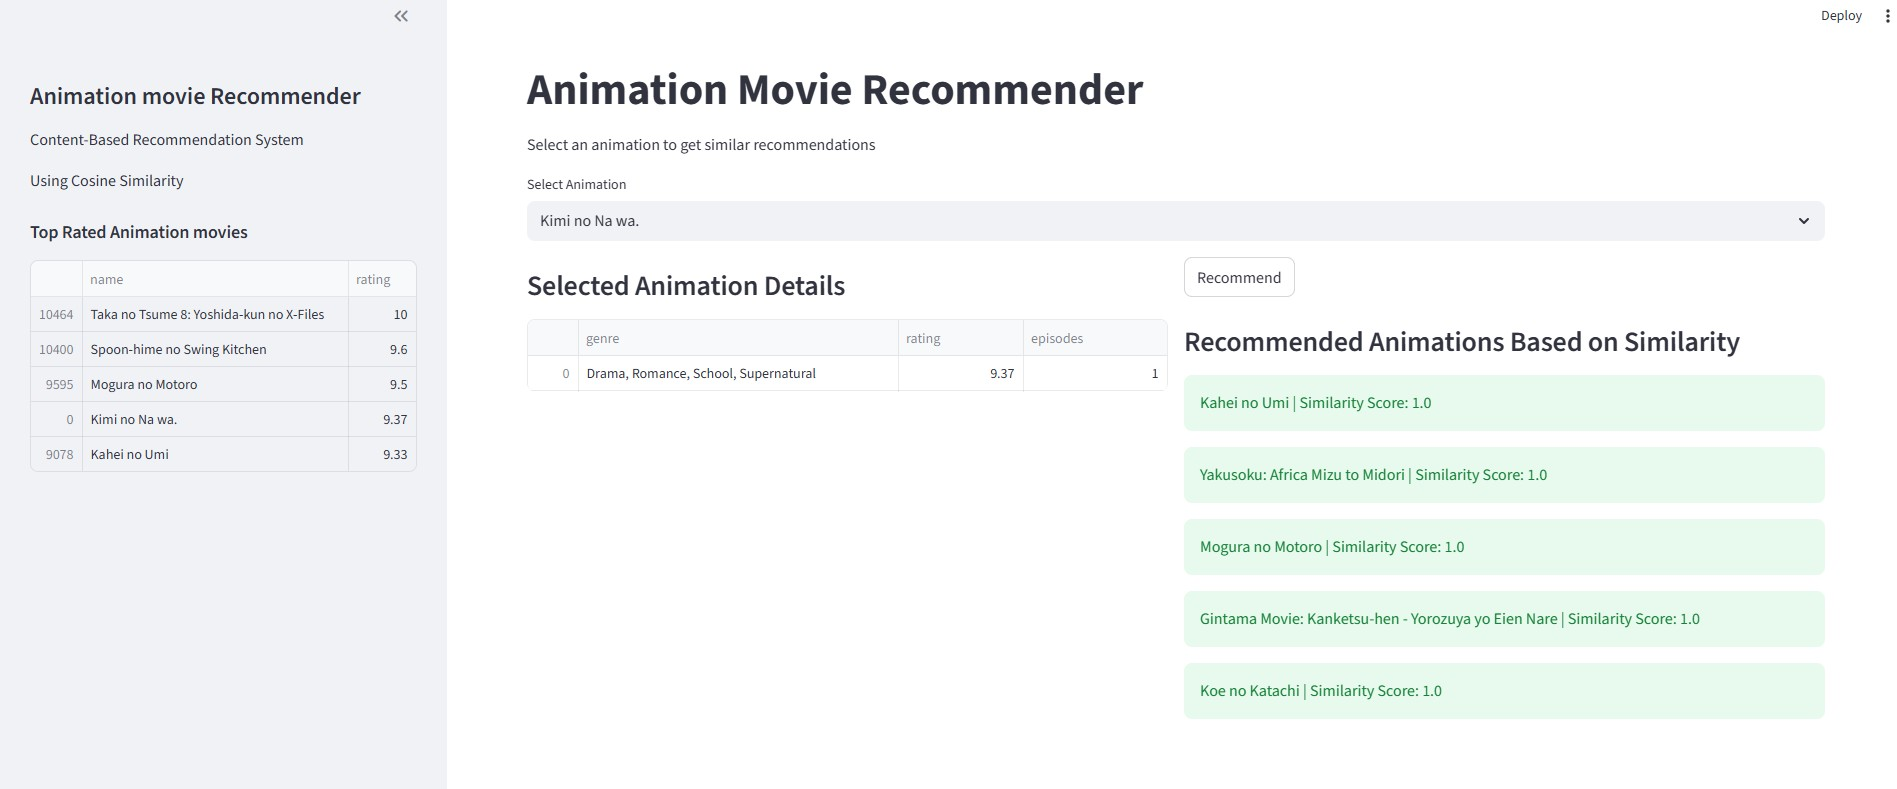
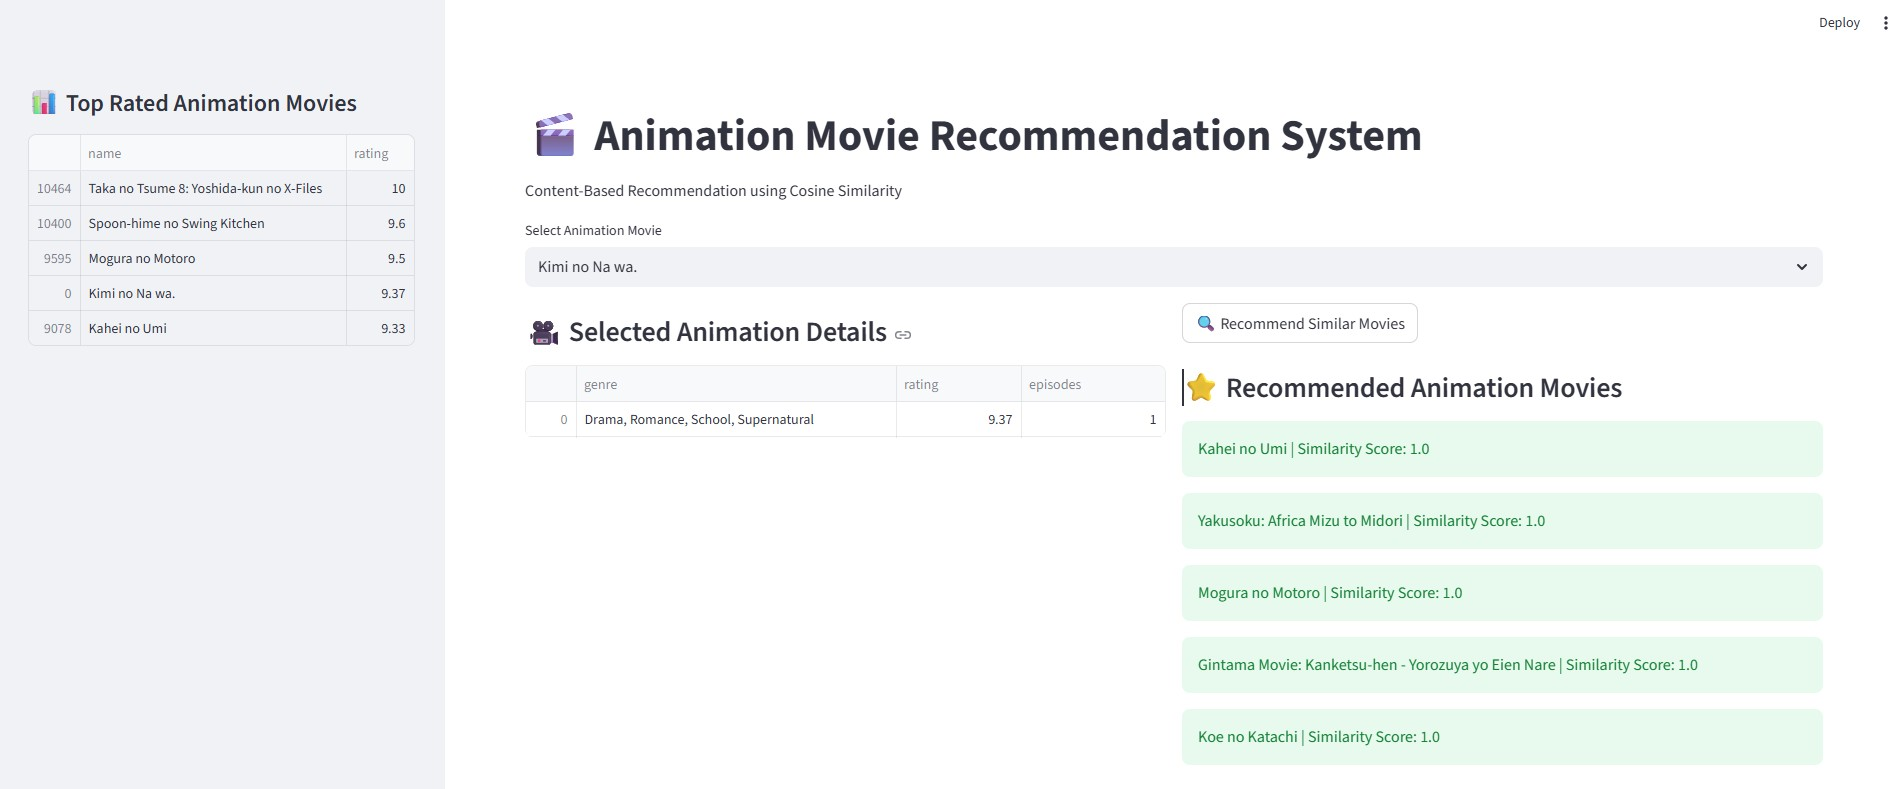
Update Streamlit app, fix deployment, update requirements and screenshots

diff --git a/app.py b/app.py
@@ -1,16 +1,24 @@
 import streamlit as st
 import pandas as pd
+import os
 from sklearn.metrics.pairwise import cosine_similarity
 from sklearn.preprocessing import MinMaxScaler
 
-st.set_page_config(page_title="Animation_movie_Recommender", layout="wide")
+# ---------------------------
+# Page Config
+# ---------------------------
+st.set_page_config(page_title="Animation Movie Recommender", layout="wide")
+
+st.title("🎬 Animation Movie Recommendation System")
+st.write("Content-Based Recommendation using Cosine Similarity")
 
 # ---------------------------
-# Load Data
+# Load Data (Cloud Safe Path)
 # ---------------------------
 @st.cache_data
 def load_data():
-    df = pd.read_csv("data.csv")
+    data_path = os.path.join("data", "data.csv")
+    df = pd.read_csv(data_path)
     return df
 
 df = load_data()
@@ -23,6 +31,7 @@ df['episodes'] = pd.to_numeric(df['episodes'], errors='coerce')
 
 df['rating'] = df['rating'].fillna(0)
 df['episodes'] = df['episodes'].fillna(0)
+df['genre'] = df['genre'].fillna("Unknown")
 
 # ---------------------------
 # Feature Scaling
@@ -38,6 +47,9 @@ similarity_matrix = cosine_similarity(features_scaled)
 # Recommendation Function
 # ---------------------------
 def recommend(anime_name):
+    if anime_name not in df['name'].values:
+        return []
+
     idx = df[df['name'] == anime_name].index[0]
     scores = list(enumerate(similarity_matrix[idx]))
     scores = sorted(scores, key=lambda x: x[1], reverse=True)[1:6]
@@ -50,34 +62,32 @@ def recommend(anime_name):
 # ---------------------------
 # Sidebar
 # ---------------------------
-st.sidebar.title("Animation movie Recommender")
-st.sidebar.write("Content-Based Recommendation System")
-st.sidebar.write("Using Cosine Similarity")
-
-st.sidebar.subheader("Top Rated Animation movies")
+st.sidebar.title("📊 Top Rated Animation Movies")
 top_anime = df.sort_values(by="rating", ascending=False).head(5)
-st.sidebar.write(top_anime[['name', 'rating']])
+st.sidebar.dataframe(top_anime[['name', 'rating']])
 
 # ---------------------------
-# Main Page
+# Main Layout
 # ---------------------------
-st.title("Animation Movie Recommender")
-st.write("Select an animation to get similar recommendations")
-
 anime_list = df['name'].dropna().unique()
-selected_anime = st.selectbox("Select Animation", anime_list)
+selected_anime = st.selectbox("Select Animation Movie", anime_list)
 
 col1, col2 = st.columns(2)
 
+# Movie Details
 with col1:
-    st.subheader("Selected Animation Details")
+    st.subheader("🎥 Selected Animation Details")
     anime_details = df[df['name'] == selected_anime][['genre', 'rating', 'episodes']]
     st.dataframe(anime_details)
 
+# Recommendations
 with col2:
-    if st.button("Recommend"):
+    if st.button("🔍 Recommend Similar Movies"):
         recommendations = recommend(selected_anime)
-        st.subheader("Recommended Animations Based on Similarity")
 
-        for anime, score in recommendations:
-            st.success(f"{anime}  | Similarity Score: {score}")
+        if recommendations:
+            st.subheader("⭐ Recommended Animation Movies")
+            for anime, score in recommendations:
+                st.success(f"{anime}  | Similarity Score: {score}")
+        else:
+            st.warning("No recommendations found.")
